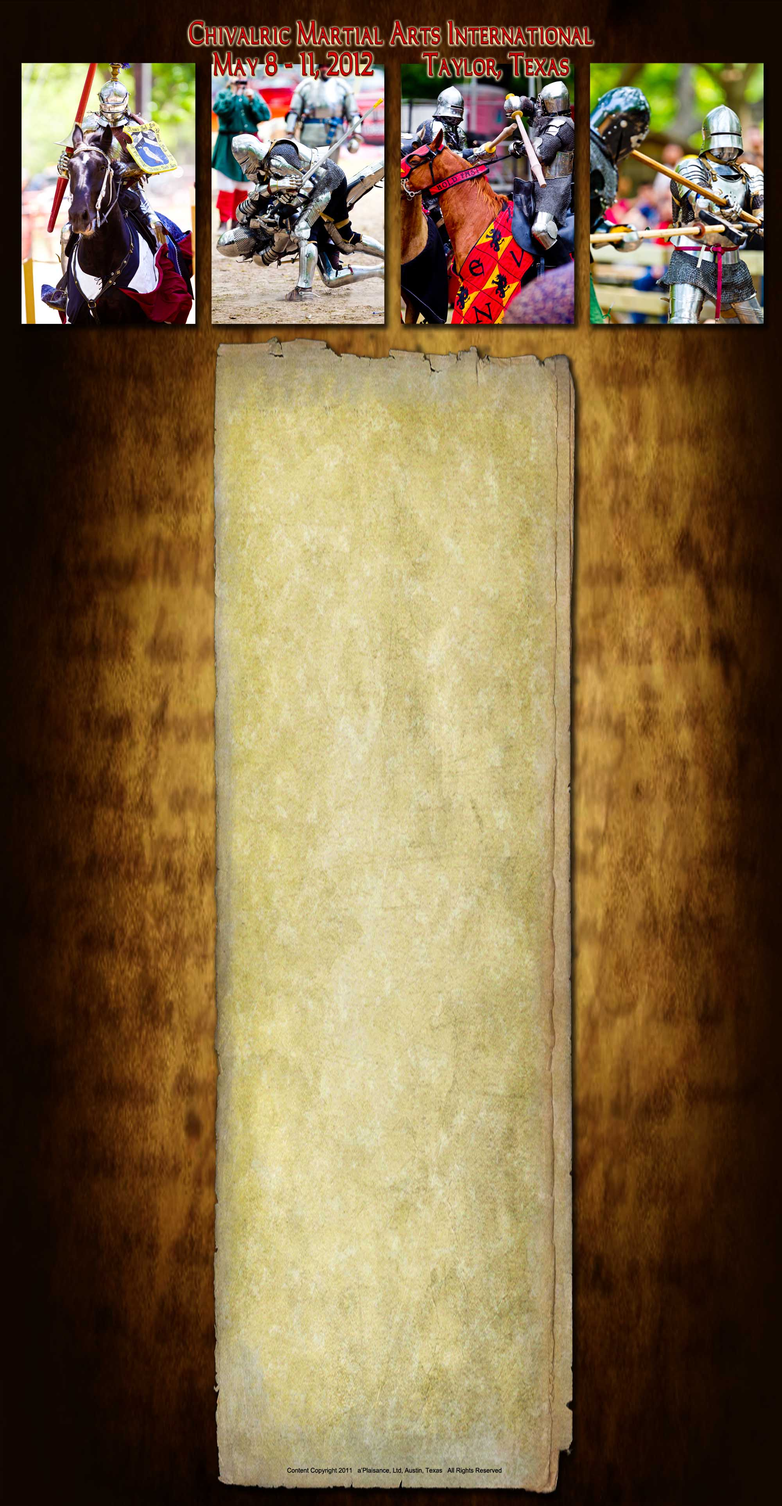
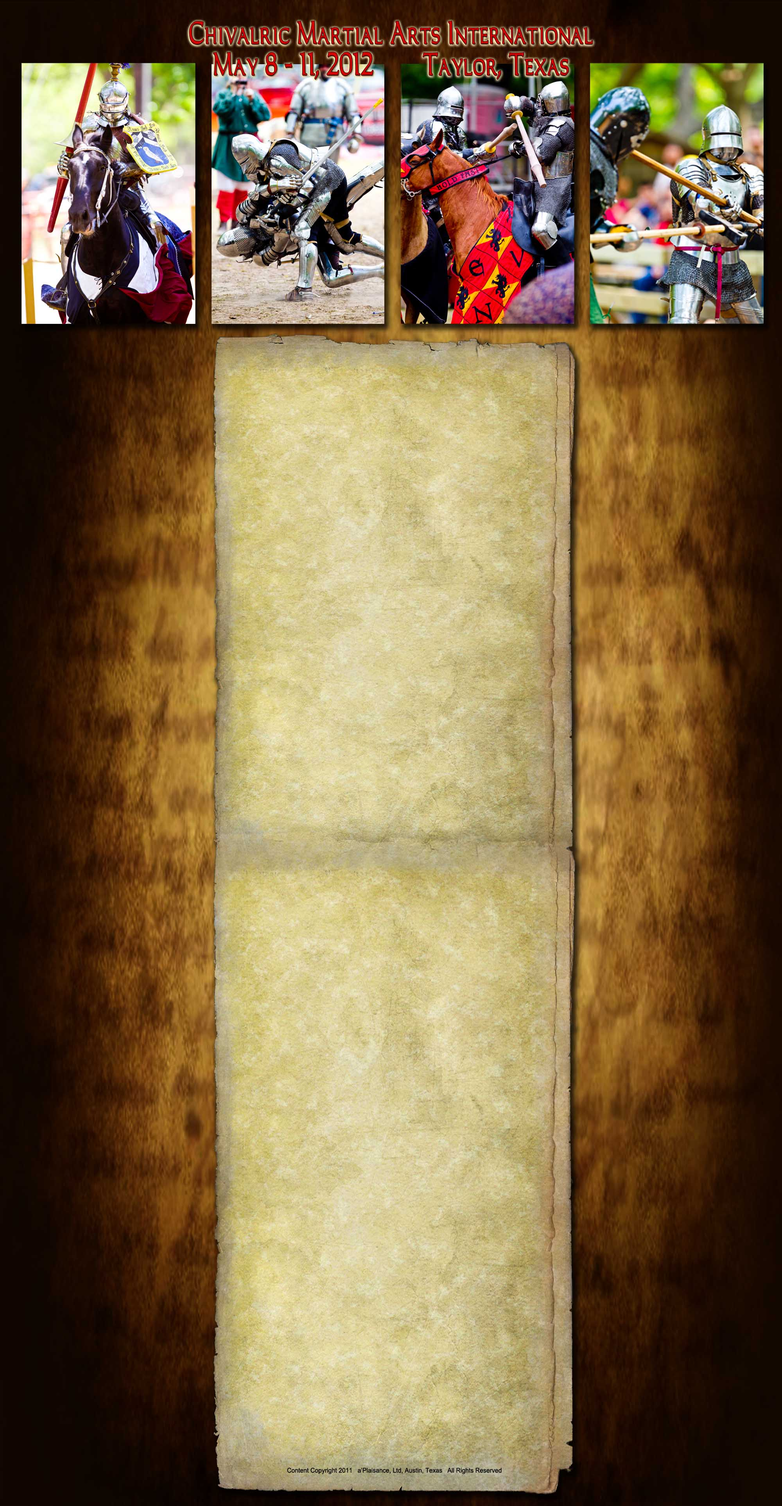
Fixed stuff.

Changed region(s): [[0.248, 0.2182, 0.744, 0.9974]]

diff --git a/css/structure.css b/css/structure.css
@@ -27,7 +27,7 @@
     text-align: center;
 }
 .instructors-body {
-    background: url('../img/structure/bg/InstructorBG.jpg') no-repeat scroll;
+    background: url('../img/structure/bg/InstructorsBG.jpg') no-repeat scroll;
     background-position: top center;
     font-family: arial,helvetica,sans-serif;
     font-size: 12pt;
@@ -58,17 +58,15 @@
 
 .schedule-text-pane {
     position: relative;
-    margin: 0 auto 404px;
+    margin: 0 auto;
     width:800px;
     text-algin:left;
 }
 
 .instructor-text-pane {
     position: relative;
-    margin: 0 auto;
+    margin: 0 auto 343px;
     width:800px;
-    height:2341px;
-
     text-algin:left;
 }
 
@@ -76,7 +74,6 @@
     position: relative;
     margin: 0 auto;
     width:800px;
-    height:2341px;
     text-algin:left;
 }
 
@@ -156,7 +153,7 @@
 
 .aPlaisance-logo-schedule {
     position: relative;
-    top: 324px;
+    top: 310px;
 }
 
 .aPlaisance-logo-contact {
@@ -171,12 +168,12 @@
 
 .aPlaisance-logo-classes{
     position: relative;
-    top:166px;
+    top: 122px;
 }
 
-.aPlaisance-logo-classes{
+.aPlaisance-logo-instructors{
     position: relative;
-    top:166px;
+    top: 247px;
 }
 
 .aPlaisance-logo-registration {
@@ -223,6 +220,20 @@
     margin: 0 auto;
 }
 
+.blank-classes {
+    position: absolute;
+    top: 6538px;
+}
+
+.blank-schedule {
+    position: absolute;
+    top: 2849px;
+}
+
+.blank-registration {
+    position: absolute;
+    top: 3849px;
+}
 .frame {
     border: 1px solid aqua; height:4000px;
 }

diff --git a/classes.php b/classes.php
@@ -205,12 +205,12 @@
             <span>Required Equipment:</span> dagger simulator<br>
             The dagger is a person's "go to" weapon of self defense. Fiore's dagger section is the longest and most involved part of the manual. Students will train dagger techniques and learn which ones are "good in armor" and why.</p>
 
-            <p><span>10:45a</span>            	<span class="class-name">Sword in Armour: Fighting at the Full Sword and the Half Sword--</span><br>
+            <p><span>10:45a</span>            	<span class="class-name">Sword in Armour: Fighting at the Full Sword and the Half Sword</span><br>
             <span>Instructor:</span> Sean Hayes<br>
             <span>Required Equipment:</span> steel longsword with rubber or leather blunt attached, harness<br>
-            Armoured combat often employs the sword as a short spear, by grasping the blade with one hand, commonly referred to as "half-swording."  While most of the armoured guards show this style of grip, Fiore also uses the sword in a "standard" grip, at the full sword.  This class will practice the use of both forms in matched and unmatched combinations, and examine the tactical uses of switching between these grips.
+            Armoured combat often employs the sword as a short spear, by grasping the blade with one hand, commonly referred to as "half-swording."  While most of the armoured guards show this style of grip, Fiore also uses the sword in a "standard" grip, at the full sword.  This class will practice the use of both forms in matched and unmatched combinations, and examine the tactical uses of switching between these grips.</p>
 
-            <p><span>1:30p</span>             	<span class="class-name">The sinister pollaxe: Playing from the left in Le Jeu --</span>
+            <p><span>1:30p</span>             	<span class="class-name">The sinister pollaxe: Playing from the left in Le Jeu</span><br>
             <span>Instructor:</span> Jason Smith<br>
             <span>Required Equipment:</span> pollaxe<br>
             In this class, we will visit the left-handed plays of the manuscript and how it deals with playing against someone fighting from the left. Students will visit the plays from both perspectives to experience how the principles illustrated in the manuscript can be applied regardless of handedness, and how the dynamics of off-hand play affect the fight. Having attended the introductory Jeu class "Pollaxe for Dummies" is preferred, or some previous experience with the pollaxe.</p>
@@ -220,9 +220,11 @@
             <span>Required Equipment:</span> Harness, dagger, sword, poleaxe,  spear simulators<br>
             Students will practice the concepts with instructors and other students in a coached environment to improve the students understanding and ability to apply these concepts while in combat in harness.</p>
 
-            <div class="aPlaisance-logo-classes">
-                <a href="http://www.aplaisance.com" onmouseover="document.aPlaisance.src='img/structure/aPlaisanceGlow.png';" onmouseout="document.aPlaisance.src='img/structure/aPlaisance.png'"><img src="img/structure/aPlaisance.png" name="aPlaisance" border="0"></a>
-            </div>
         </div>
+
+        <div class="aPlaisance-logo-classes">
+            <a href="http://www.aplaisance.com" onmouseover="document.aPlaisance.src='img/structure/aPlaisanceGlow.png';" onmouseout="document.aPlaisance.src='img/structure/aPlaisance.png'"><img src="img/structure/aPlaisance.png" name="aPlaisance" border="0"></a>
+        </div>
+        <img src="img/structure/blank.png" class="blank-classes"/>
     </body>
 </html>

diff --git a/instructors.php b/instructors.php
@@ -112,6 +112,9 @@
                 <li>Armored Combat Training</li>
                 <li>The Dagger of Fiore</li>
             </ul>
+            <div class="aPlaisance-logo-instructors">
+                <a href="http://www.aplaisance.com" onmouseover="document.aPlaisance.src='img/structure/aPlaisanceGlow.png';" onmouseout="document.aPlaisance.src='img/structure/aPlaisance.png'"><img src="img/structure/aPlaisance.png" name="aPlaisance" border="0"></a>
+            </div>
         </div>
     </body>
 </html>

diff --git a/schedule.php b/schedule.php
@@ -202,5 +202,6 @@
                 <a href="http://www.aplaisance.com" onmouseover="document.aPlaisance.src='img/structure/aPlaisanceGlow.png';" onmouseout="document.aPlaisance.src='img/structure/aPlaisance.png'"><img src="img/structure/aPlaisance.png" name="aPlaisance" border="0"></a>
             </div>
         </div>
+        <img src="img/structure/blank.png" class="blank-schedule"/>
     </body>
 </html>

diff --git a/registration.php b/registration.php
@@ -662,5 +662,6 @@
             </div>
         </form>
         </div>
+        <img src="img/structure/blank.png" class=blank-registration"/>
     </body>
 </html>
